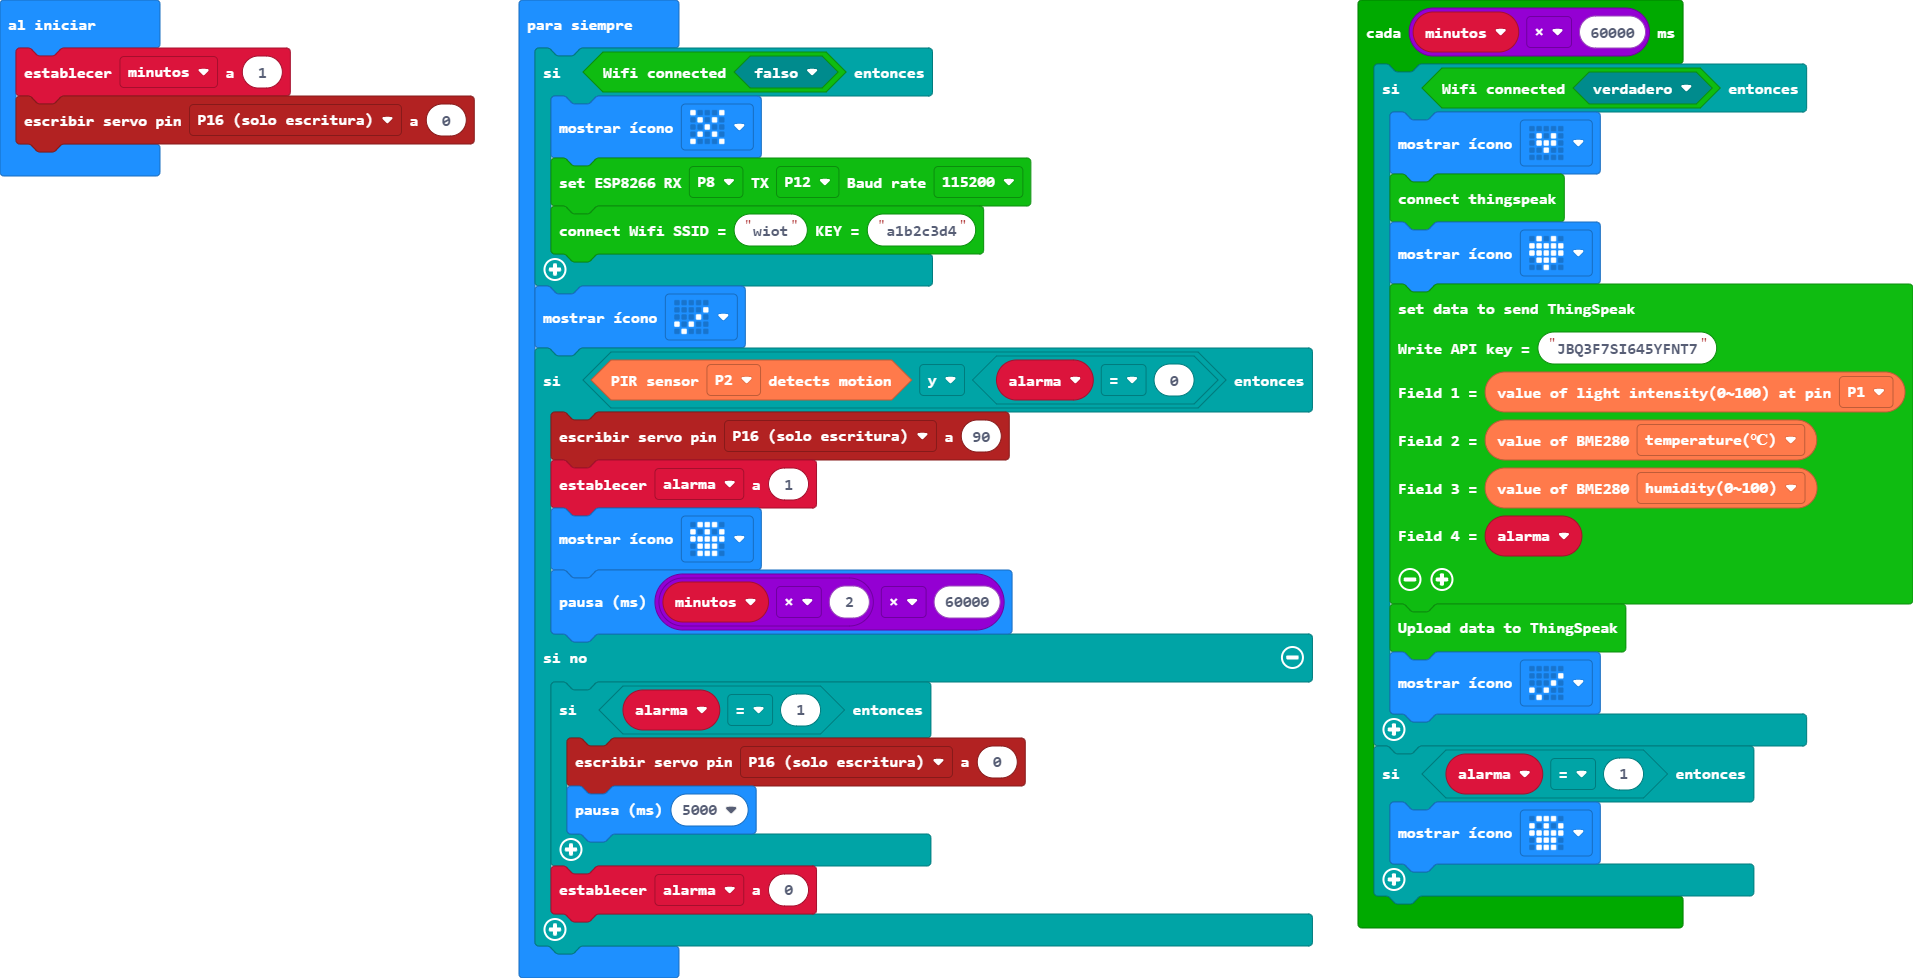
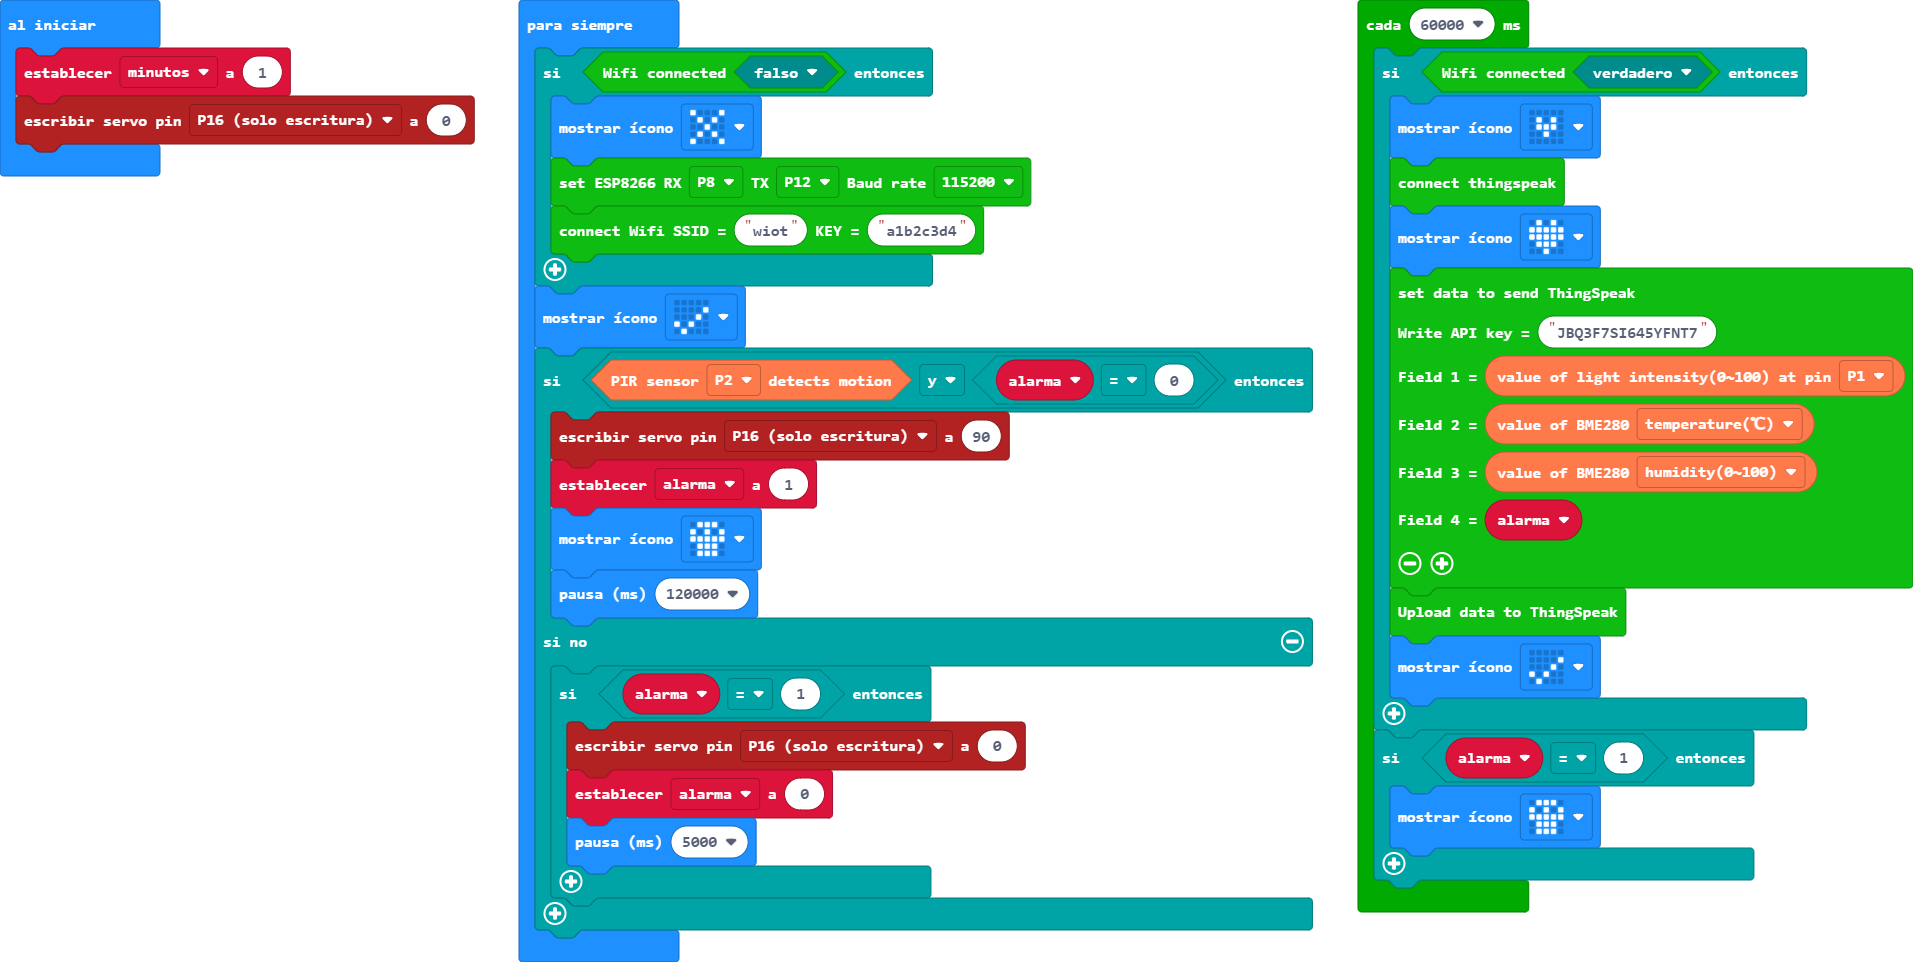
Actualizar main.blocks, main.ts

diff --git a/main.ts b/main.ts
@@ -1,27 +1,7 @@
 let alarma = 0
 let minutos = 1
 pins.servoWritePin(AnalogPin.P16, 0)
-basic.forever(function () {
-    if (ESP8266_IoT.wifiState(false)) {
-        basic.showIcon(IconNames.No)
-        ESP8266_IoT.initWIFI(SerialPin.P8, SerialPin.P12, BaudRate.BaudRate115200)
-        ESP8266_IoT.connectWifi("wiot", "a1b2c3d4")
-    }
-    basic.showIcon(IconNames.Yes)
-    if (Environment.PIR(DigitalPin.P2) && alarma == 0) {
-        pins.servoWritePin(AnalogPin.P16, 90)
-        alarma = 1
-        basic.showIcon(IconNames.Skull)
-        basic.pause(minutos * 2 * 60000)
-    } else {
-        if (alarma == 1) {
-            pins.servoWritePin(AnalogPin.P16, 0)
-            basic.pause(5000)
-        }
-        alarma = 0
-    }
-})
-loops.everyInterval(minutos * 60000, function () {
+loops.everyInterval(60000, function () {
     if (ESP8266_IoT.wifiState(true)) {
         basic.showIcon(IconNames.SmallHeart)
         ESP8266_IoT.connectThingSpeak()
@@ -38,5 +18,25 @@ loops.everyInterval(minutos * 60000, function () {
     }
     if (alarma == 1) {
         basic.showIcon(IconNames.Skull)
+    }
+})
+basic.forever(function () {
+    if (ESP8266_IoT.wifiState(false)) {
+        basic.showIcon(IconNames.No)
+        ESP8266_IoT.initWIFI(SerialPin.P8, SerialPin.P12, BaudRate.BaudRate115200)
+        ESP8266_IoT.connectWifi("wiot", "a1b2c3d4")
+    }
+    basic.showIcon(IconNames.Yes)
+    if (Environment.PIR(DigitalPin.P2) && alarma == 0) {
+        pins.servoWritePin(AnalogPin.P16, 90)
+        alarma = 1
+        basic.showIcon(IconNames.Skull)
+        basic.pause(120000)
+    } else {
+        if (alarma == 1) {
+            pins.servoWritePin(AnalogPin.P16, 0)
+            alarma = 0
+            basic.pause(5000)
+        }
     }
 })
